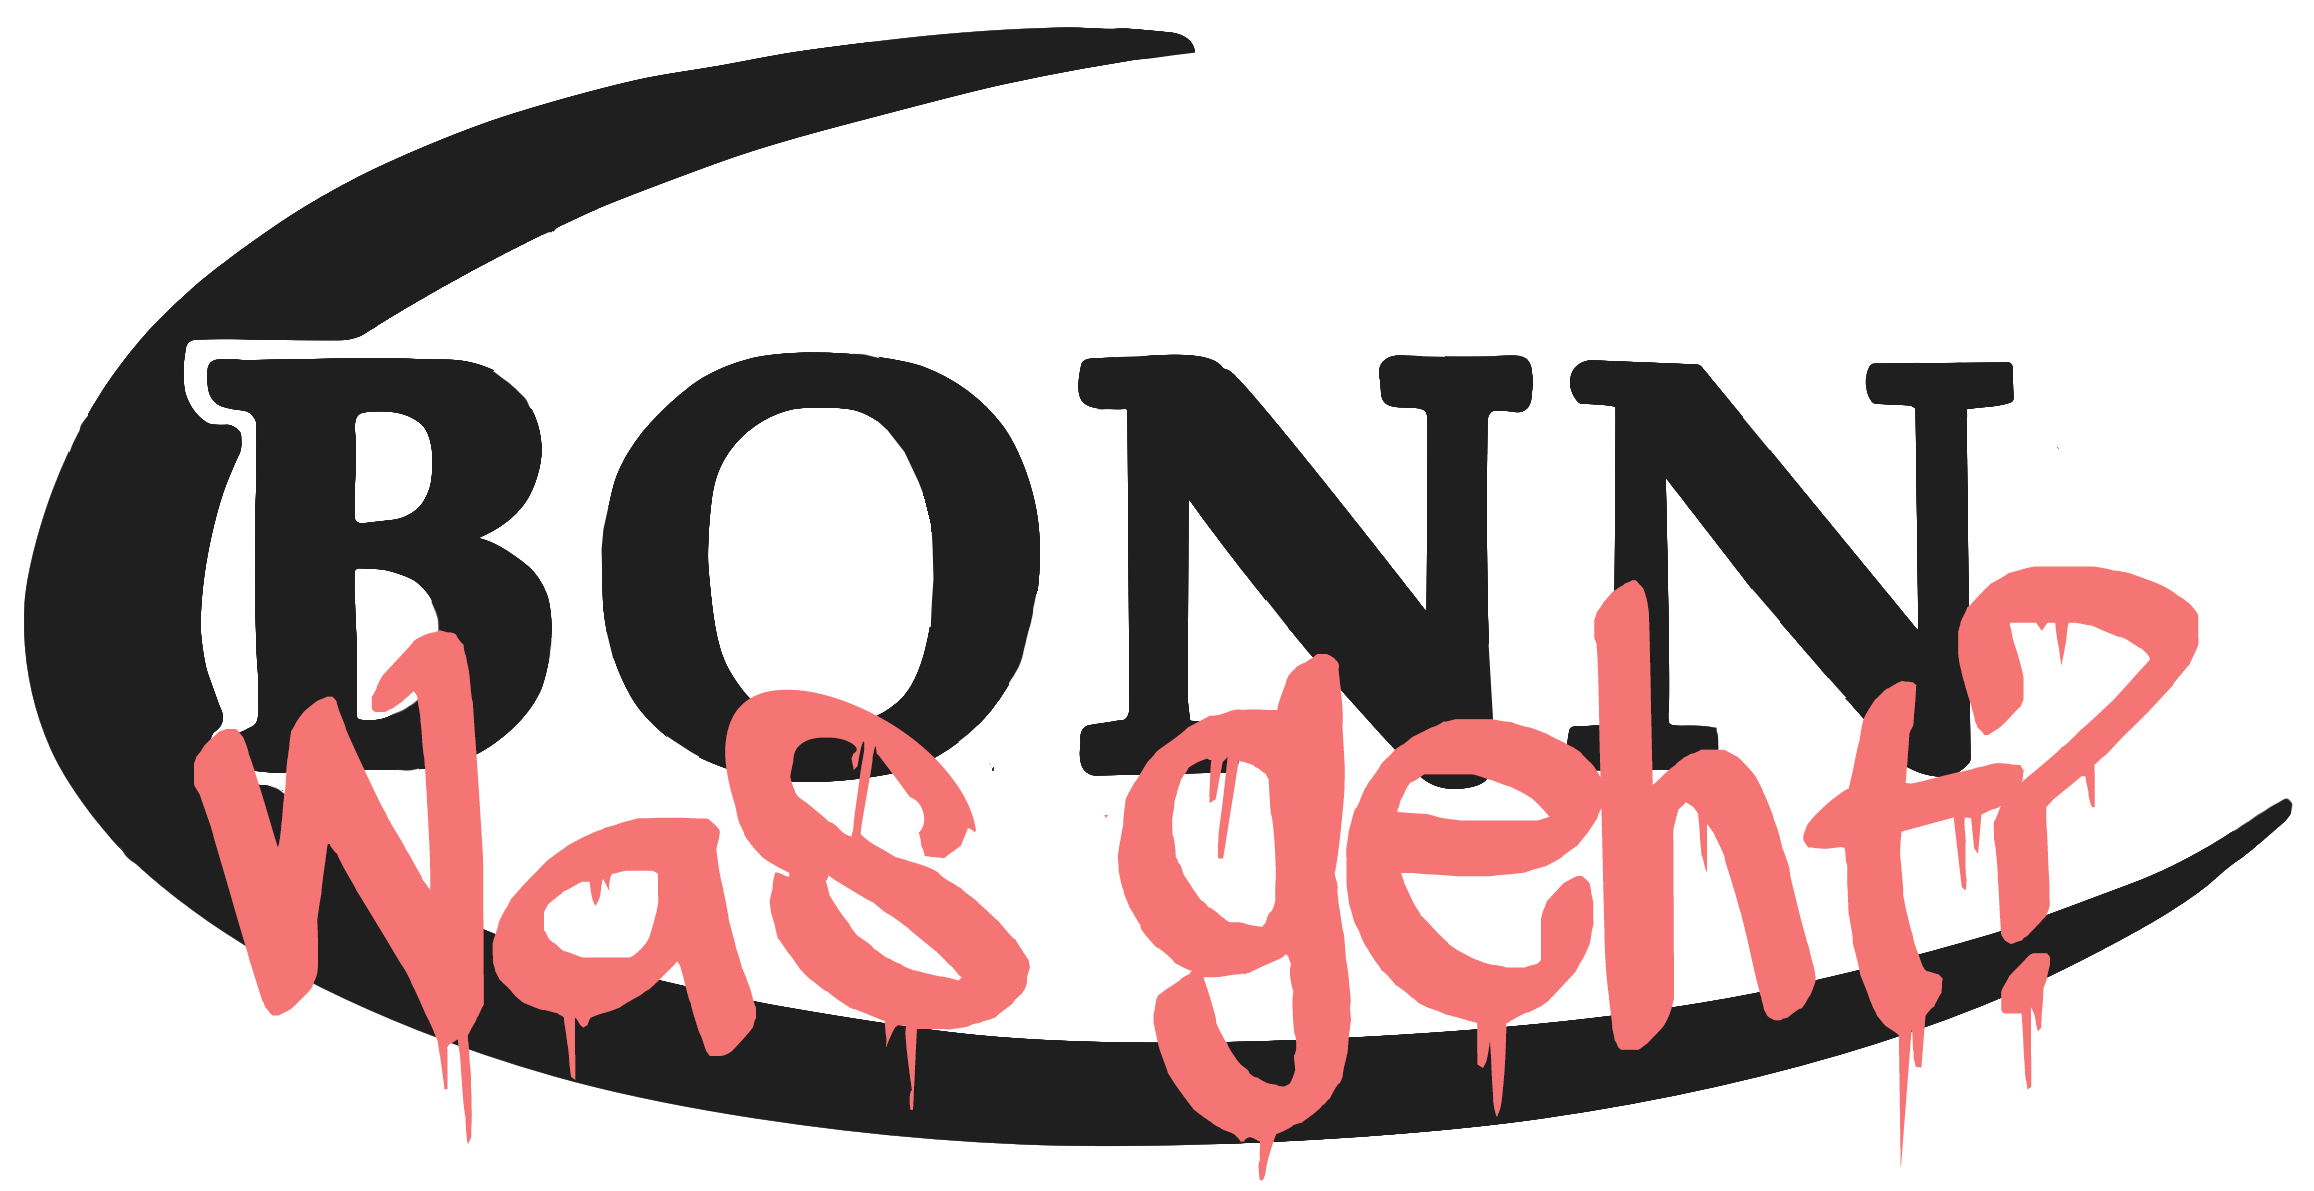
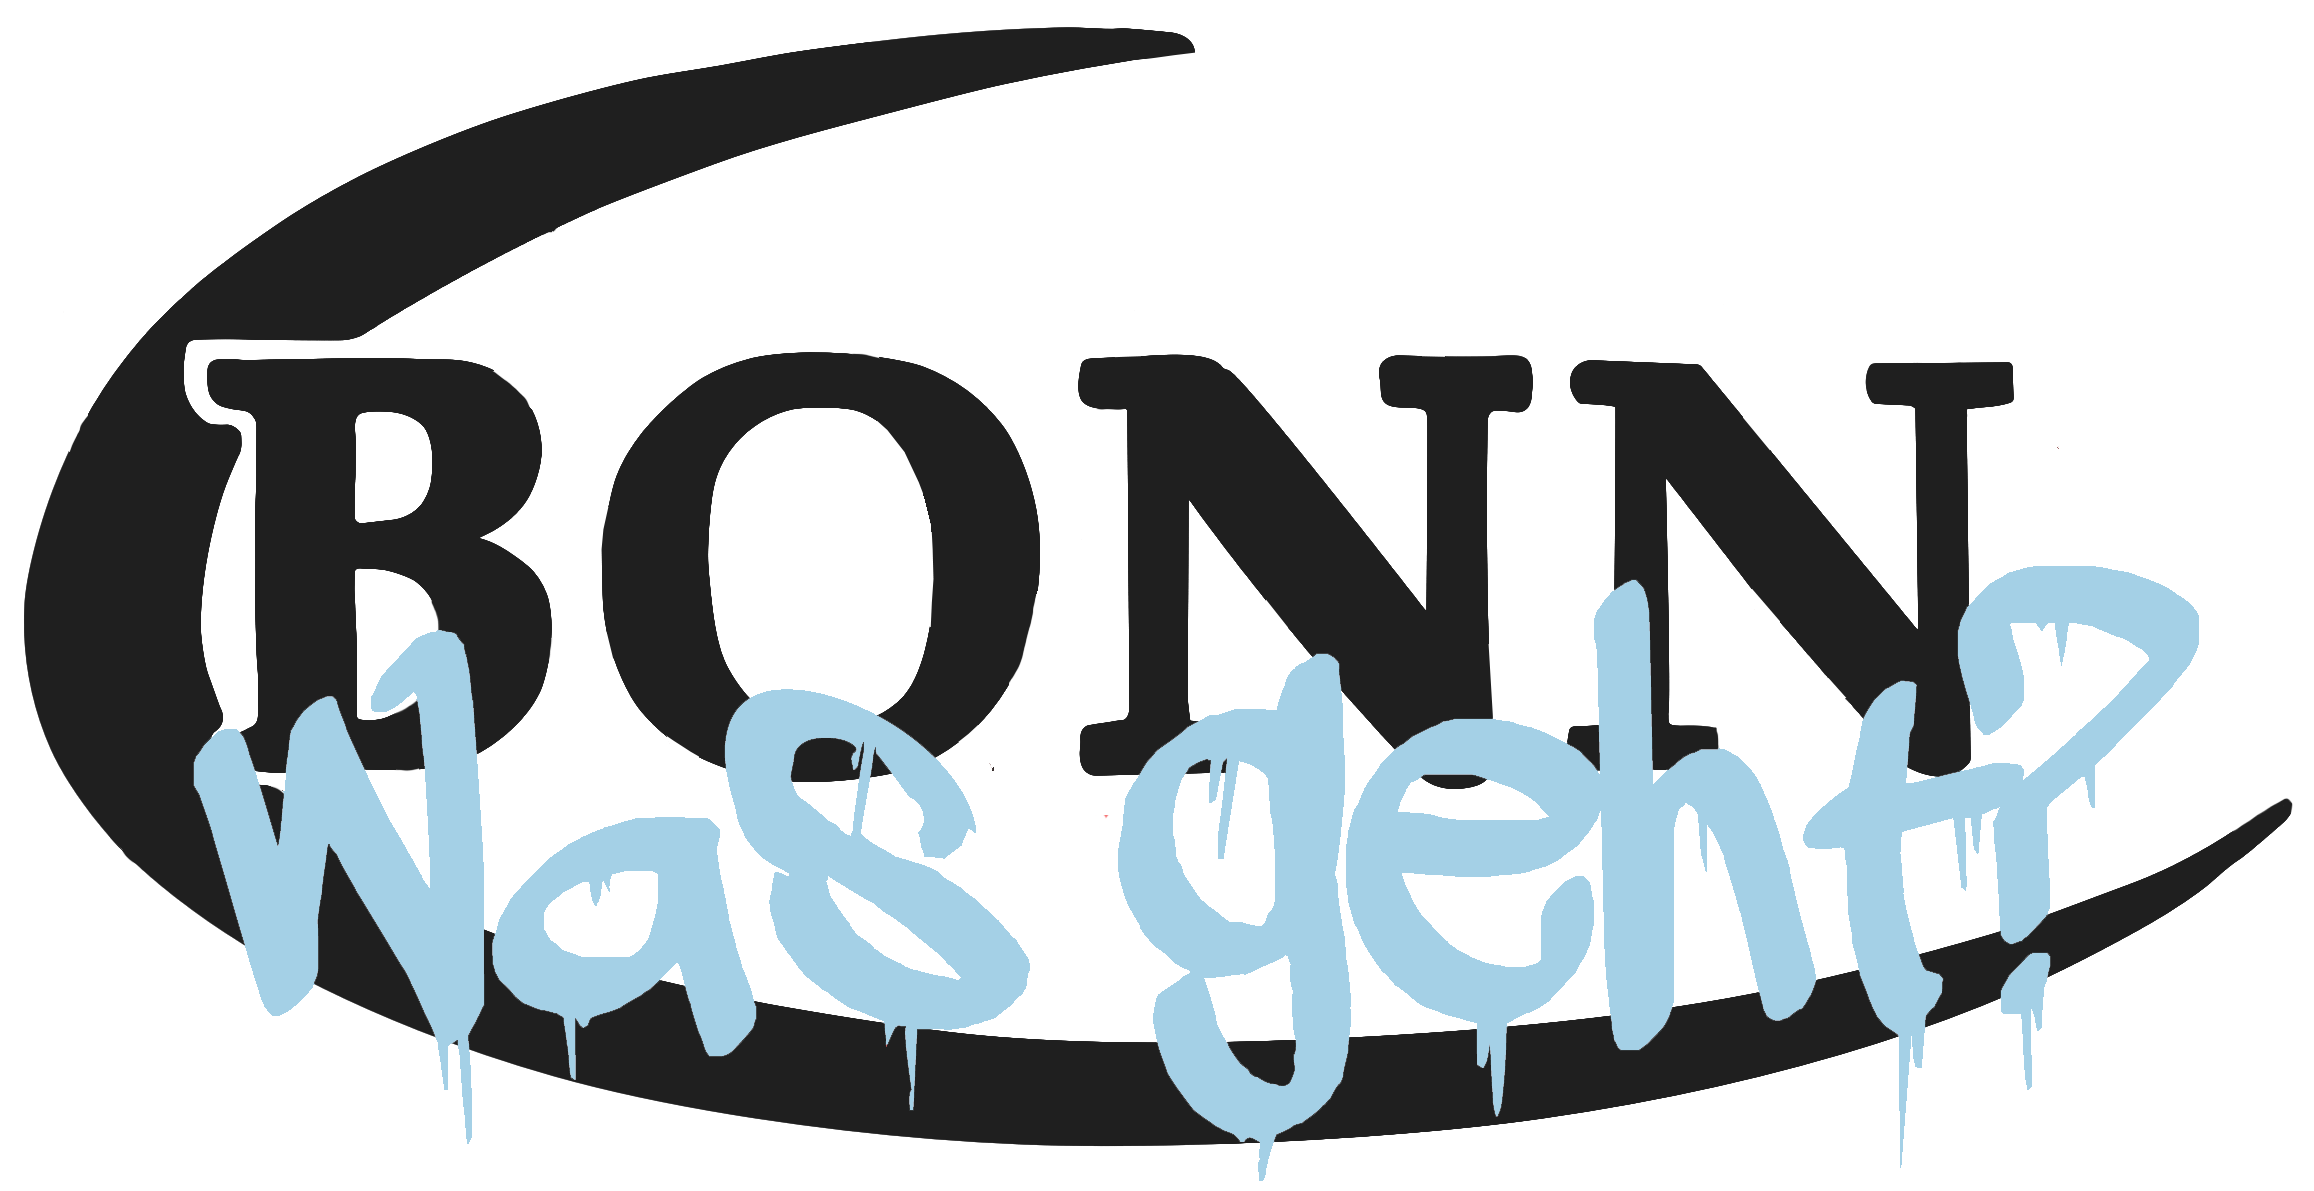
sicheristsicher

Changed region(s): [[0.4667, 0.466, 0.9646, 0.9941], [0.0622, 0.5281, 0.4667, 0.932]]

diff --git a/ProgrammierprojektBonnWasGeht/style.css b/ProgrammierprojektBonnWasGeht/style.css
@@ -1,8 +1,9 @@
 body{
-    font-family: 'Roboto';
+    font-family: 'Merriweather',  serif;
     margin: 0;
     padding: 0;
     overflow: hidden;
+    
 }
 
 @keyframes slide-in {
@@ -13,6 +14,15 @@ body{
       transform: translateX(0%), scale(1.2);
     }
   }
+p{
+    color: #5c5c5c;
+    font-family: 'Roboto';
+}
+
+a{
+    color: #5c5c5c;
+    font-family: 'Roboto';
+}
 
 #userdatacontainer{
     height: 0;
@@ -37,6 +47,7 @@ form {
     flex-direction: column;
     width: 60vh;
     text-align: center;
+    margin-top: 10vh;
 	padding-top: 0;
     padding-bottom: 5em;
     padding-left: 2em;
@@ -50,7 +61,8 @@ form {
 input, select {
 	padding:0.5em;
 	font-size:0.775em;
-	font-family:'Roboto';
+	font-family: 'Roboto';
+    color: #5c5c5c;
 	background:#f4f4f4;
 	border:1px solid rgb(255, 255, 255);
 	border-width:1px 1px 1px 0;
@@ -122,19 +134,21 @@ input[type="submit"]:hover {
 	color:#fff;
 }
 
-p{
+form p{
+    margin-top: 5px;
     font-family: 'Roboto'
 }
 
 
 label{
+    color: #5c5c5c;
     font-family: 'Roboto';
     display: flex;
     justify-content: center;
 }
 
 label a{
-    color: black;
+    color: #5c5c5c;
     padding: 0.5em 0px 0.5em 0px;
 }
 
@@ -152,11 +166,12 @@ label a{
     position: relative;
     width: 100%;
     height: 80vh;
+    animation: slide-in 1000ms;
 }
 
 form h2{
-    font-family: 'Merriweather', serif;
-    font-weight: bold;
+    font-family: 'Playfair Display';
+    font-weight: 900;
     font-size: 35px;
     margin-bottom: 6px;
 }
@@ -233,7 +248,7 @@ form h2{
         align-self: center;
         top: 2vh;
         z-index: 22;
-        padding-right: 28px;
+        padding-right: 40px;
     }
 
     .header1 img{
@@ -423,45 +438,57 @@ form h2{
     
     }
 
-    .neumorphism{
+    .mainbox{
+        z-index: 35;
         position: absolute;
-        top: 30px;
-        left: 30px;
-        width: 500px;
-        height: 170px;
-        /*border-radius: 54px;
-        background: #a4d0e6;
-        box-shadow:  10px 10px 36px #97bfd4,
-             -10px -10px 36px #b1e1f8;*/
-         z-index: 6;
+        top: 40px;
+        left: 70px;
+        border-radius: 40px;
+         z-index: 7;
+         
     }
 
-    .css-3d-text {
-        font-size: 55px;
-        padding-left: 36px;
-        padding-top: 15px;
-        line-height: 100%;
+    .css-3d-text-red{
+        color: #e6baa4;
+        line-height: 110%;
+        font-family: Impact, Charcoal, sans-serif;
+        text-shadow: 0px 0px 0 rgb(180,136,114),
+                     -1px 1px  0 rgb(130,86,64),
+                     -2px 2px 1px rgba(238,100,82,0.6),
+                     -2px 2px 1px rgba(238,100,82,0.5),
+                     0px 0px 1px rgba(238,100,82,.2);
+    }   
+
+    .sec{
+        font-size: 60px;
+    }
+
+    .ind{
+        font-size: 65px;
+    }
+    
+    .css-3d-text-blue{
+        font-size: 40px;
+        line-height: 110%; 
         color: #a4d0e6;
-        font-family: "Arial Black", Gadget, sans-serif;
-        color: #69cdff;
-        font-family: "Arial Black", Gadget, sans-serif;
-        text-shadow: 0px 0px 0 rgb(88,188,238),
-                     -1px -1px 0 rgb(72,172,222),
-                     -2px -2px 0 rgb(55,155,205),
-                     -3px -3px  0 rgb(38,138,188),
-                     -4px -4px 3px rgba(0,0,0,0.6),
-                     -4px -4px 1px rgba(0,0,0,0.5),
-                     0px 0px 3px rgba(0,0,0,.2);
-        z-index: 6;
+        font-family: Impact, Charcoal, sans-serif;
+        text-shadow: 0px 0px 0 rgb(114,158,180),
+                    -1px 1px  0 rgb(64,108,130),
+                    -2px 2px 1px rgba(47,84,135,0.6),
+                    -2px 2px 1px rgba(47,84,135,0.5),
+                    0px 0px 1px rgba(47,84,135,.2);
      }
+
 
     .rechteseite{
         z-index: 29;
         position: absolute;
         width: 60%;
         height: 100%;
+        top: 0;
         right: 0;
         display: flex;
+        justify-content: center;
     }
 
     .sections{
@@ -581,6 +608,7 @@ form h2{
         margin-top: 7px;
         width: 60%;
         float: left;
+        padding-top: 10px;
     }
 
     .titelu span{
@@ -601,7 +629,7 @@ form h2{
         padding-bottom: 0;  
         margin-bottom: 0;
         margin-top: 8px;
-        height: 40px;
+        
         text-overflow: ellipsis;
         overflow: hidden;
         display: -webkit-box;

diff --git a/ProgrammierprojektBonnWasGeht/index.html b/ProgrammierprojektBonnWasGeht/index.html
@@ -10,16 +10,20 @@
     <link href='https://fonts.googleapis.com/css?family=Playfair Display' rel='stylesheet'>
     <link href='https://fonts.googleapis.com/css?family=Roboto' rel='stylesheet'>
     <link rel="preconnect" href="https://fonts.googleapis.com">
-<link rel="preconnect" href="https://fonts.gstatic.com" crossorigin>
-<link href="https://fonts.googleapis.com/css2?family=Merriweather:wght@700&display=swap" rel="stylesheet">
-<link rel="stylesheet" href="https://code.getmdl.io/1.3.0/material.indigo-pink.min.css">
+    <link rel="preconnect" href="https://fonts.gstatic.com" crossorigin>
+    <link href="https://fonts.googleapis.com/css2?family=Merriweather:wght@700&display=swap" rel="stylesheet">
+    <link rel="stylesheet" href="https://code.getmdl.io/1.3.0/material.indigo-pink.min.css">
+    <link href="https://fonts.googleapis.com/css2?family=Merriweather:wght@700&family=Playfair+Display:wght@900&display=swap" rel="stylesheet">
+    <script type="text/javascript" src="userdataformular.js"></script>
 </head>
 
     <div class="header">
         <a href="index.html"><img src="images\Bonnwasgeht.png"></a>
     </div>
     <div class="firstpageheader"><img src="images\verlaufswerkzeug.png" alt="verlauf"></div>
-    <div class="neumorphism"><div class="css-3d-text">WAS GEHT DIESE WOCHE IN BONN?</div></div>
+    <div class="mainbox"><div class="css-3d-text-red ind">Was geht diese <br>Woche in Bonn?</div></div>
+    <div class="backgroundbox1"></div>
+    <div class="backgroundbox2"></div>
     <div class="seitenunterteilung">
         <div class="leftside">
             <div class="wrapper">
@@ -32,27 +36,27 @@
         <div id="userdatacontainer">
             <div class="wrapper">
                 <div class="header1"><a href="index.html"><img src="images\Bonnwasgeht.png"></a></div>
-                <form onsubmit="saveUserData()" action="sections.html">
-                <h2>Los gehts!</h2>
+                <form id="userform" onsubmit="userdataformular.saveUserData()" action="sections.html">
+                <div class="css-3d-text-blue">Los gehts!</div>
                 <p>Finde heraus was du zur Zeit unternehmen kannst</p>
                 <div class="form-field input-right">
                 <label for="value"><a>Alter</a></label>
-                    <input type="value" name="value" id="age" required/>
+                    <input type="value" name="value"  id="age" required/>
                 </div>
                 <div class="form-field multi-input">
                 <label for="dob"><a>Tag</a></label>
                     <select name="Wochentage" id="weekday" class="wochentag-select" required>
-                        <option name="Montag">Montag</option>
-                        <option name="Dienstag">Dienstag</option>
-                        <option name="Mittwoch">Mittwoch</option>
-                        <option name="Donnerstag">Donnerstag</option>
-                        <option name="Freitag">Freitag</option>
-                        <option name="Samstag">Samstag</option>
-                        <option name="Sonntag">Sonntag</option>                
+                        <option value="Montag">Montag</option>
+                        <option value="Dienstag">Dienstag</option>
+                        <option value="Mittwoch">Mittwoch</option>
+                        <option value="Donnerstag">Donnerstag</option>
+                        <option value="Freitag">Freitag</option>
+                        <option value="Samstag">Samstag</option>
+                        <option value="Sonntag">Sonntag</option>                
                     </select>
                 </div>
                 <div class="submit-field">
-                <input id="losgehts" type="submit" value="Weiter" onclick="sections.html"/>
+                <input id="losgehts" type="submit" value="Weiter" />
                 </div>
                 </form>	
             </div>

diff --git a/ProgrammierprojektBonnWasGeht/sections.html b/ProgrammierprojektBonnWasGeht/sections.html
@@ -7,8 +7,8 @@
     <title>BonnWasGeht</title>
     <link rel="stylesheet" href="style.css">
     <link rel="preconnect" href="https://fonts.googleapis.com">
-<link rel="preconnect" href="https://fonts.gstatic.com" crossorigin>
-<link href="https://fonts.googleapis.com/css2?family=Merriweather:wght@700&display=swap" rel="stylesheet">
+    <link rel="preconnect" href="https://fonts.gstatic.com" crossorigin>
+    <link href="https://fonts.googleapis.com/css2?family=Merriweather:wght@700&display=swap" rel="stylesheet">
     <svg xmlns="//www.w3.org/2000/svg" version="1.1" class="svg-filters" style="display:none;">
         <defs>
           <filter id="marker-shape">
@@ -17,11 +17,13 @@
           </filter>
         </defs>
       </svg>
+    <script src="userdataformular.js"></script>
 </head>
 <body>
     <div class="header">
         <a href="index.html"><img src="images\Bonnwasgeht.png"></a>
     </div>
+    <div class="mainbox"><div class="css-3d-text-red sec">Was möchtest du<br>am Dienstag <br> machen?</div></div>
     <div class="leftside">
         <div class="wrapper">
             <div class="designleft">
@@ -51,6 +53,7 @@
     <div class="skylinediv"><img src="images\bonnskyline.png" alt="bonnskyline"></div>
     <div class="firstpageheader"><img src="images\verlaufswerkzeug.png" alt="verlauf"></div>
     <div class="rechteseite">
+        <div class="header1"><a href="index.html"><img src="images\Bonnwasgeht.png"></a></div>
         <div class="sections">
             <div class="higherhalf">
                 <div class="lefthalf"><div class="sectionrestaurants"><a href="eventlist.html"><img src="images/sectionrestaurant.png" alt="restaurant"></a></div></div>

diff --git a/ProgrammierprojektBonnWasGeht/eventlist.html b/ProgrammierprojektBonnWasGeht/eventlist.html
@@ -12,10 +12,14 @@
     <link rel="preconnect" href="https://fonts.googleapis.com">
 <link rel="preconnect" href="https://fonts.gstatic.com" crossorigin>
 <link href="https://fonts.googleapis.com/css2?family=Merriweather:wght@700&display=swap" rel="stylesheet">
-    <title>Eventlist</title>
+<link rel="stylesheet" href="https://code.getmdl.io/1.3.0/material.indigo-pink.min.css">
+<link href="https://fonts.googleapis.com/css2?family=Merriweather:wght@700&family=Playfair+Display:wght@900&display=swap" rel="stylesheet">
+<script src="userdataformular.js"></script>
+<title>Eventlist</title>
 </head>
 <body>
     <div class="firstpageheader"><img src="images\verlaufswerkzeug.png" alt="verlauf"></div>
+    <div class="mainbox"><div class="css-3d-text-red ind">Hier ein <br>paar Ideen <br>für dich!</div></div>
     <div class="leftside">
         <div class="wrapper">
             <div class="designleft">

diff --git a/ProgrammierprojektBonnWasGeht/userdataformular.js b/ProgrammierprojektBonnWasGeht/userdataformular.js
@@ -1,5 +1,21 @@
-function saveUserData(){
-    var age=document.getElementById(`alter`);
-    var weekday=document.getElementById(`weekday`);
-    sessionStorage.setItem(`age`, `weekday`);
+let button = document.getElementById("losghets");
+button.addEventListener("click", machWas());
+
+function machWas(event){
+        event.preventDefault();
+        let weekday=document.getElementById("weekday");
+        console.log(weekday.value);
 }
+
+/*function saveUserData(){
+    event.preventDefault();
+    let weekday = document.getElementById('weekday').ariaValueMax;
+    console.log(weekday)
+    
+}*/
+
+function getWeekday(){
+    return sessionStorage.getItem('weekday');
+}
+
+
